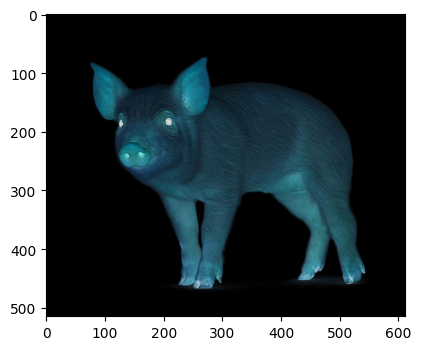
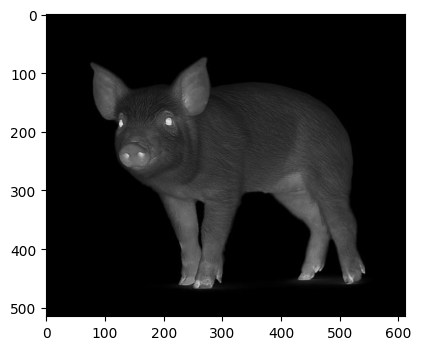
Adding documentation

Changed region(s): [[0.2162, 0.1714, 0.8646, 0.8286]]

diff --git a/docs/source/RGB2Gray.rst b/docs/source/RGB2Gray.rst
@@ -1,0 +1,49 @@
+RGB2Gray
+=============
+
+
+
+
+Context:
+~~~~~~~~
+
+Many functions require your input image to be in grayscale. 
+Color images are in the form of RGB, a continuous trait as opposed to discrete values.
+This causes problems in analysis, therefore, conversion to discrete values between 0-255 (black pixels - white pixels) is ideal.
+Where gray pixels, are any values between black-white.
+
+Arguments:
+~~~~~~~~
+ * Requires a path to your image.
+
+
+Code:
+~~~~~~~~
+
+.. code:: python
+   import cv2
+   from LivestockCV import core as LivestockCV_core
+
+   img = cv2.imread('/content/drive/MyDrive/pig.jpg')
+
+   print('                           Original Raw Image')
+   LivestockCV_core.plot_image(img)
+   grey_img = LivestockCV_core.rgb2gray(img)
+
+   print('            Grey Image')
+   LivestockCV_core.plot_image(grey_img)
+
+
+
+Results:
+~~~~~~~~
+
+.. figure:: /images/pig.png
+Original Raw Image
+      
+      
+.. figure:: /images/gray.png
+This is what our pig looks like in grayscale
+
+
+

diff --git a/docs/source/Invert.rst b/docs/source/Invert.rst
@@ -1,0 +1,50 @@
+Invert
+=============
+
+
+
+
+Context:
+~~~~~~~~
+
+After thresholding or grayscaling, you may find particular use in inverting the image. White values are black and black values are white. Gray pixel values are also inverted.
+ 
+
+Arguments:
+~~~~~~~~
+ * Requires a path to your image.
+
+
+Code:
+~~~~~~~~
+
+.. code:: python
+   import cv2
+   from LivestockCV import core as LivestockCV_core
+
+   img = cv2.imread('/content/drive/MyDrive/pig.jpg')
+
+   print('                           Original Raw Image')
+   LivestockCV_core.plot_image(img)
+   grey_img = LivestockCV_core.rgb2gray(img)
+   inverted_pig = LivestockCV_core.invert(grey_img)
+
+
+   print('            Inverted Image')
+   LivestockCV_core.plot_image(inverted_pig)
+
+
+
+Results:
+~~~~~~~~
+
+.. figure:: /images/pig.png
+Original Raw Image
+      
+      
+.. figure:: /images/gray.png
+This is what our pig looks like in grayscale
+
+.. figure:: /images/invert.png
+This is what our pig looks like inverted!
+

diff --git a/docs/source/Thresholding.rst b/docs/source/Thresholding.rst
@@ -11,7 +11,7 @@ Often times we might found ourselves needing to make a silhouette of our animal 
 Thresholding is a simplification technique we can apply to images. In the most simplest terms, we first take an RGB image, and convert it to grayscale.
 What grayscale conversion does is it transforms the values of all the pixels into a scale of 0-255. By setting a threshold value we can uniformly convert values below our threshold to black. 
 
-.. admonition:: Happiness can be found in the darkest of times, if one only remembers to turn on the light
+.. note::
    Total black is the absence of light, therefore, the pixel value of pitch black is 0. Conversely, 255 is the lucent illumination of pure white. 
 
 Arguments:

diff --git a/docs/source/index.rst b/docs/source/index.rst
@@ -63,13 +63,15 @@ Here are some cool things we can do with LivestockCV
    
 
 .. toctree::
-   :maxdepth: 4
+   :maxdepth: 6
    :caption: List of Core Functions
    
    Blur (Gaussian)
    Crop
    Plot Image
    Thresholding
+   RGB2Gray
+   Invert
    
 .. toctree::
    :maxdepth: 2
